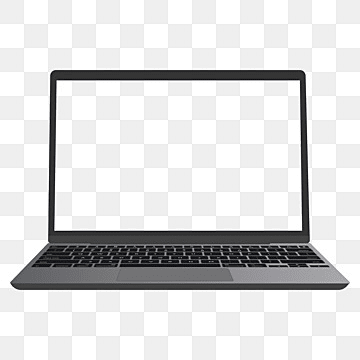
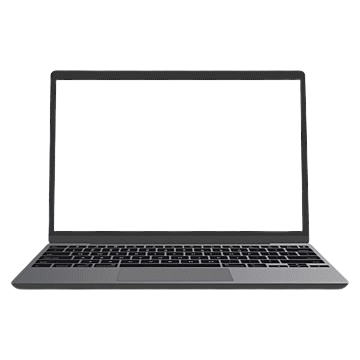
Update product model, database configuration, and default product asset

diff --git a/src/models/Product.js b/src/models/Product.js
@@ -72,6 +72,10 @@ const productSchema = new mongoose.Schema(
 
     title: { type: String, required: true },
     shortDescription: { type: String, required: true },
+    aiDescription: {
+  type: String,
+  default: null,
+},
     price: { type: Number, required: true },
     rating: { type: Number, default: 0 },
 

diff --git a/src/libs/db.js b/src/libs/db.js
@@ -1,7 +1,7 @@
 import mongoose from "mongoose";
 
 const MONGODB_URI = process.env.MONGODB_URI;
-// console.log("ENV CHECK:", process.env.MONGODB_URI);
+console.log("ENV CHECK:", process.env.MONGODB_URI);
 
 
 if (!MONGODB_URI) {
